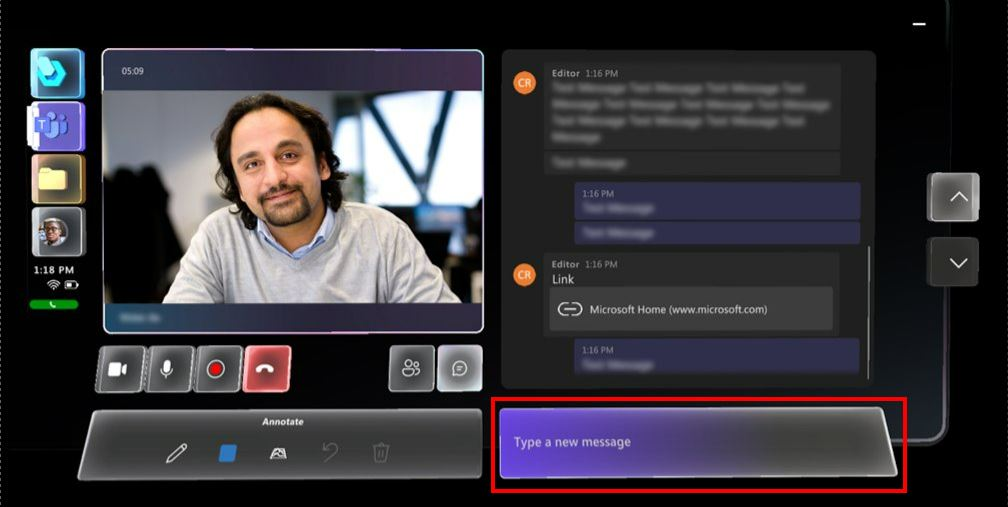
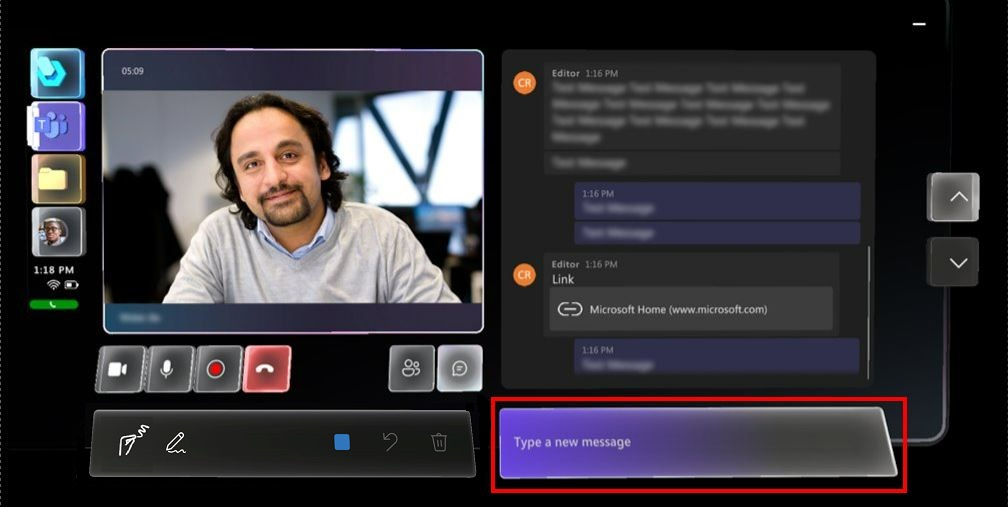
Add voice command

Changed region(s): [[0.0615, 0.7988, 0.4921, 0.9467]]

diff --git a/mr-docs/guides/calling-annotations.md b/mr-docs/guides/calling-annotations.md
@@ -26,30 +26,27 @@ Any user on Teams (PC or Mac) or Dynamics 365 Remote Assist mobile can annotate 
 >
 > Annotations don't work well on black or reflective surfaces.
 
-1. When you're on a call, select the **Direct Ink** button on the **Annotate** toolbar.
+1. When you're on a call, select the **Direct ink** button on the **Annotate** toolbar.
 
-   :::image type="content" source="/media/calling-annotations-direct-ink.png" alt-text="Screenshot of Meeting window and Annotate toolbar with focus on Direct Ink tool.":::
+   :::image type="content" source="media/calling-annotations-direct-ink.png" alt-text="Screenshot of Meeting window and Annotate toolbar with focus on Direct ink tool.":::
 
-1. Pinch your idex finger and thumb to place ink at the tip of your fingers.
+1. Pinch your index finger and thumb to place ink at the tip of your fingers.
 
 1. Lift your index finger from your thumb to stop placing ink.
 
 ### Draw far away
 
-1. When you're on a call, select the **Far-field Ink** button on the **Annotate** toolbar.
+1. When you're on a call, select the **Far-field ink** button on the **Annotate** toolbar.
 
-   :::image type="content" source="media/calling-annotations-far-field.png" alt-text="Screenshot of Annotate toolbar with focus on Far field Ink tool.":::
+   :::image type="content" source="media/calling-annotations-far-field.png" alt-text="Screenshot of Annotate toolbar with focus on Far field ink tool.":::
 
 1. Use your hand rays to place the cursor where you want to start drawing.
 
 1. Air tap, keep your index finger and thumb together, and then start drawing in your space. Release the air tap to stop drawing.
 
-   > [!TIP]
-   > To use a voice command, select the **Ink** button by saying "Guides, Drawing on."
-
 ### Change ink color
 
-- Select the **Color** button on the **Annotate** toolbar, and then when the **Annotate** toolbar flips over, select the color you want. That color will be used the next time that you draw with the **Direct ink** or **Far-field ink**.
+- Select the **Color** button on the **Annotate** toolbar, and then when the **Annotate** toolbar flips over, select the color you want. That color will be used the next time that you draw with the **Direct ink** or **Far-field ink** button.
 
    :::image type="content" source="media/calling-annotations-drawing-example.JPG" alt-text="Screenshot showing color ink choices.":::
 
@@ -69,9 +66,9 @@ When you join a call in Microsoft Teams, you'll see your Dynamics 365 Guides col
 ![Screenshot of the Teams mixed reality toolbar.](media/calling-annotations-teams-desktop-mr-toolbar.JPG)
 
 > [!NOTE]
-> -	The toolbar appears only when the video feed for the Dynamics 365 Guides user is active.
-> -	The toolbar is disabled if the Dynamics 365 Guides user is not ready to receive annotations and files (for example, the  user's outgoing video feed is disabled, the user temporarily loses tracking, or Guides is not in the foreground because the user did the Bloom gesture).
-> -	The toolbar appears if the same Guides user is connected from Teams and Dynamics Guides at the same time, regardless of the device used.
+> - The toolbar appears only when the video feed for the Dynamics 365 Guides user is active.
+> - The toolbar is disabled if the Dynamics 365 Guides user is not ready to receive annotations and files (for example, the  user's outgoing video feed is disabled, the user temporarily loses tracking, or Guides is not in the foreground because the user did the Bloom gesture).
+> - The toolbar appears if the same Guides user is connected from Teams and Dynamics Guides at the same time, regardless of the device used.
 > - The toolbar doesn't appear if you have not turned on the [new Microsoft Teams meeting experience](https://techcommunity.microsoft.com/t5/microsoft-teams-blog/new-meeting-and-calling-experience-in-microsoft-teams/ba-p/1537581).
 
 ### Start annotating

diff --git a/mr-docs/guides/voice-commands.md b/mr-docs/guides/voice-commands.md
@@ -2,7 +2,7 @@
 author: melissahellmund
 description: This topic explains how you can use voice commands in Microsoft Dynamics 365 Guides as a substitute for hand gestures or gaze.
 ms.author: mehellmu
-ms.date: 10/17/2022
+ms.date: 03/27/2023
 ms.topic: article
 title: Use voice commands in Dynamics 365 Guides
 ms.reviewer: v-wendysmith
@@ -113,14 +113,15 @@ The sections below show Dynamics 365 Guides pages and the voice commands that yo
 | 4 | "End call" | End the call and minimize the **Main** menu. |
 | 5 | "Open participants" or "Close participants" | Display or hide the active participants tiles (right side of video feed). |
 | 6 | "Open chat" or "close chat"| Open or close the **Chat** window (right side of video feed). |
-| 7 | "Drawing on" or "Drawing off"| Select the **Ink** tool or turn off the **Ink** tool. |
-| 8 | "Select color", and then say one of these colors: "blue", "gray", "green", "red", "yellow"| Select the **Color** tool, and then apply the selected color to the ink. |
-| 9 | "Undo" | Undo the latest action. |
-| 10 | "Delete all" | Delete all annotations. |
-| 11 | "Add participants" | Display the holographic keyboard to search for contacts. |
-| 12 | "Minimize" | Minimize the screen. |
-| 13 | "Scroll up" | Scroll up the list. |
-| 14 | "Scroll down" | Scroll down the list. |
+| 7 | "Inking on" or "Inking off"| Select the **Direct ink** tool or turn off the **Direct ink** tool. |
+| 8 | "Drawing on" or "Drawing off"| Select the **Far-field ink** tool or turn off the **Far-field ink** tool. |
+| 9 | "Select color", and then say one of these colors: "blue", "gray", "green", "red", "yellow"| Select the **Color** tool, and then apply the selected color to the ink. |
+| 10 | "Undo" | Undo the latest action. |
+| 11 | "Delete all" | Delete all annotations. |
+| 12 | "Add participants" | Display the holographic keyboard to search for contacts. |
+| 13 | "Minimize" | Minimize the screen. |
+| 14 | "Scroll up" | Scroll up the list. |
+| 15 | "Scroll down" | Scroll down the list. |
 
 ### Meeting confirmation
     

diff --git a/mr-docs/remote-assist/msdyn_customerassetattachment.md b/mr-docs/remote-assist/msdyn_customerassetattachment.md
@@ -70,7 +70,7 @@ Single-valued navigation properties represent lookup fields where a single entit
 |createdonbehalfby|[systemuser](/dynamics365/customer-engagement/web-api/systemuser)|lk_msdyn_customerassetattachment_createdonbehalfby|
 |modifiedby|[systemuser](/dynamics365/customer-engagement/web-api/systemuser)|lk_msdyn_customerassetattachment_modifiedby|
 |modifiedonbehalfby|[systemuser](/dynamics365/customer-engagement/web-api/systemuser)|lk_msdyn_customerassetattachment_modifiedonbehalfby|
-|msdyn_customerasset|[msdyn_customerasset](/dynamics365/customer-engagement/web-api/msdyn_customerasset)|msdyn_msdyn_customerasset|
+|msdyn_customerasset|[msdyn_customerasset](msdyn_customerasset.md)|
 |ownerid|[principal](/dynamics365/customer-engagement/web-api/principal)|owner_msdyn_customerassetattachment|
 |owningbusinessunit|[businessunit](/dynamics365/customer-engagement/web-api/businessunit)|business_unit_msdyn_customerassetattachment|
 |owningteam|[team](/dynamics365/customer-engagement/web-api/team)|team_msdyn_customerassetattachment|
